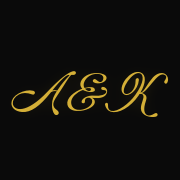
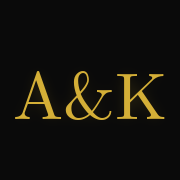
Keep splash A&K on CMU Serif
The landing monogram should match --ff-serif, not Lavonia. Gold
glow stays at 2.4s. Favicon follows the same serif mark.

Changed region(s): [[0.0556, 0.3889, 0.9444, 0.6667]]

diff --git a/style.css b/style.css
@@ -114,17 +114,17 @@ body.curtain-intro {
 }
 
 .splash-monogram {
-    font-family: var(--ff-script);
+    font-family: var(--ff-serif);
     font-size: clamp(3.5rem, 14vw, 7rem);
     color: var(--gold);
     letter-spacing: -0.02em;
-    line-height: 1.15;
+    line-height: 1;
     animation: pulseGold 2.4s ease-in-out infinite;
 }
 .mono-amp {
-    font-style: normal;
-    color: var(--gold);
-    font-size: 0.85em;
+    font-style: italic;
+    color: var(--gold-light);
+    font-size: 0.75em;
 }
 
 .splash-rule {
